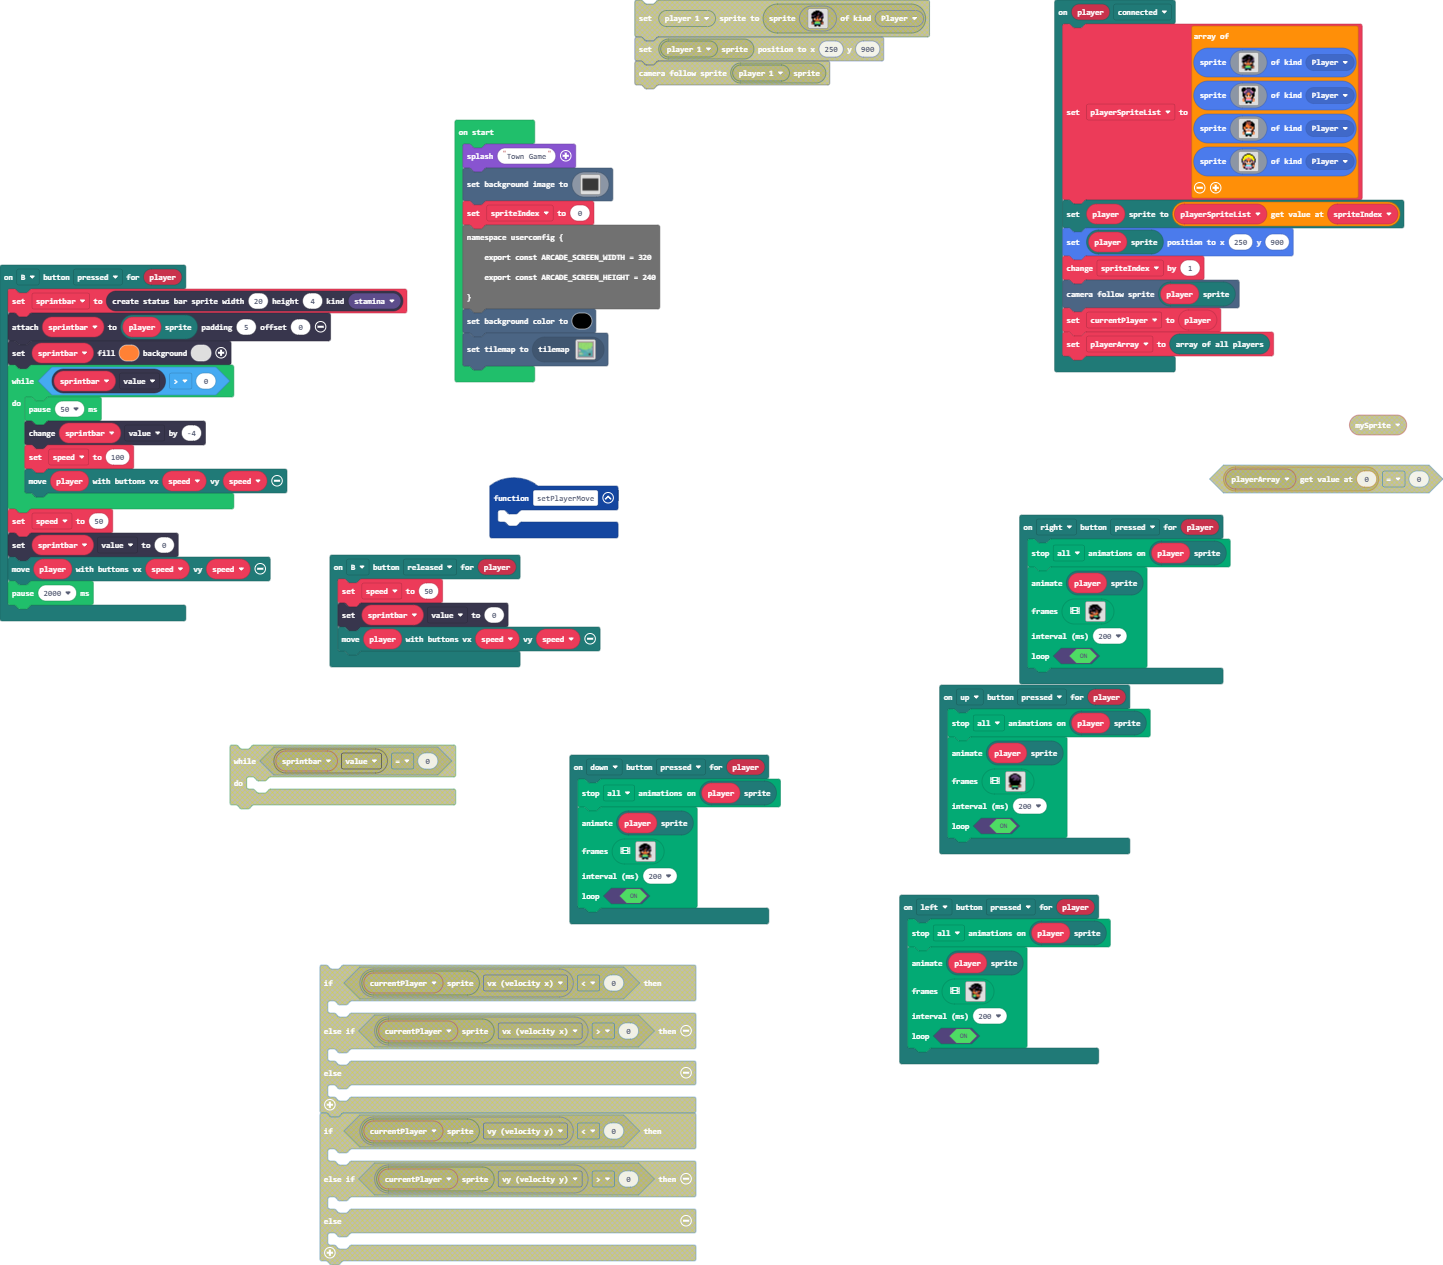
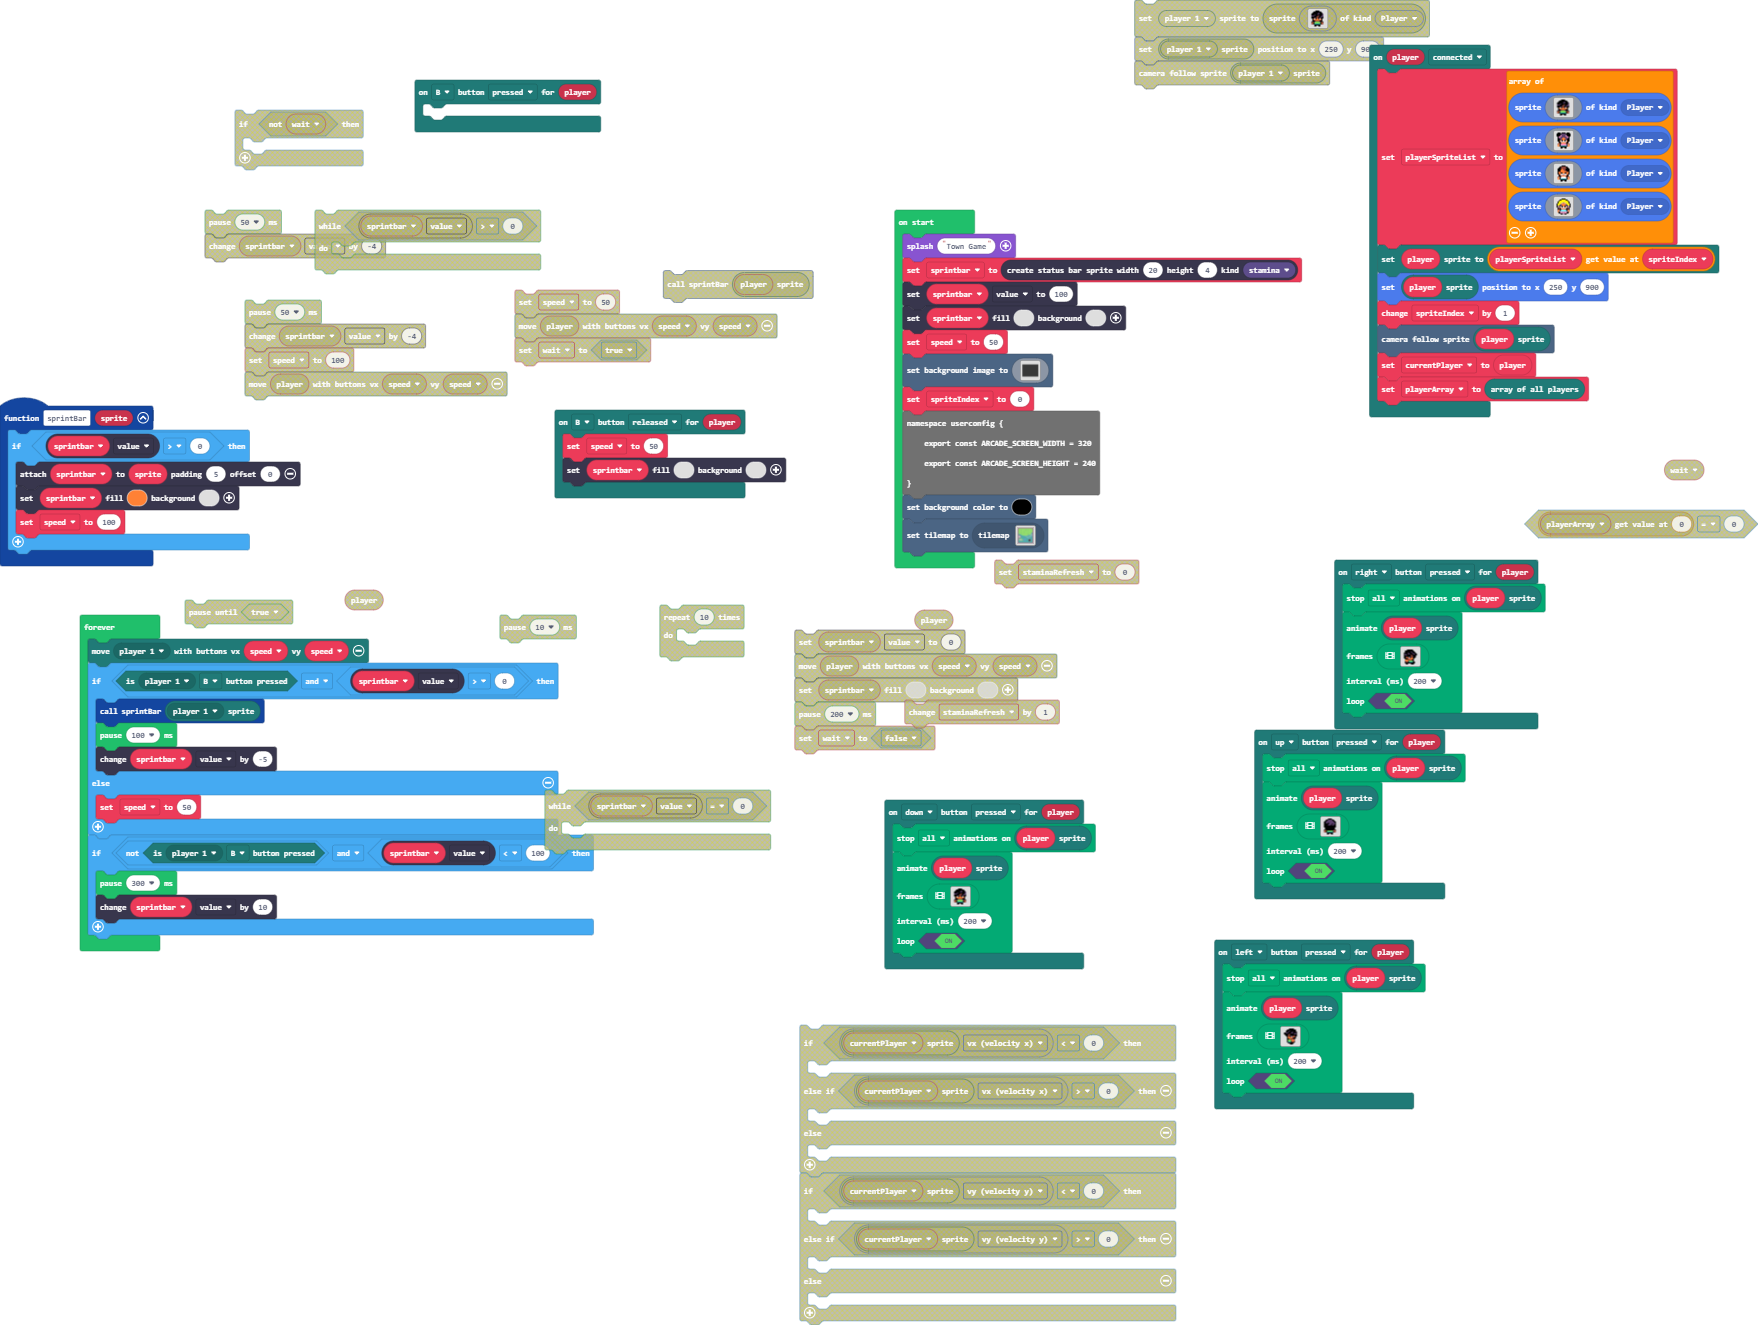
Update main.blocks, main.ts, images.g.jres, images.g.ts

diff --git a/main.ts b/main.ts
@@ -2,19 +2,7 @@ namespace StatusBarKind {
     export const stamina = StatusBarKind.create()
 }
 mp.onButtonEvent(mp.MultiplayerButton.B, ControllerButtonEvent.Pressed, function (player2) {
-    sprintbar = statusbars.create(20, 4, StatusBarKind.stamina)
-    sprintbar.attachToSprite(mp.getPlayerSprite(player2), 5, 0)
-    sprintbar.setColor(4, 0)
-    while (sprintbar.value > 0) {
-        pause(50)
-        sprintbar.value += -4
-        speed = 100
-        mp.moveWithButtons(player2, speed, speed)
-    }
-    speed = 50
-    sprintbar.value = 0
-    mp.moveWithButtons(player2, speed, speed)
-    pause(2000)
+	
 })
 mp.onButtonEvent(mp.MultiplayerButton.Right, ControllerButtonEvent.Pressed, function (player2) {
     animation.stopAnimation(animation.AnimationTypes.All, mp.getPlayerSprite(player2))
@@ -138,8 +126,7 @@ mp.onButtonEvent(mp.MultiplayerButton.Down, ControllerButtonEvent.Pressed, funct
 })
 mp.onButtonEvent(mp.MultiplayerButton.B, ControllerButtonEvent.Released, function (player2) {
     speed = 50
-    sprintbar.value = 0
-    mp.moveWithButtons(player2, speed, speed)
+    sprintbar.setColor(0, 0)
 })
 mp.onButtonEvent(mp.MultiplayerButton.Left, ControllerButtonEvent.Pressed, function (player2) {
     animation.stopAnimation(animation.AnimationTypes.All, mp.getPlayerSprite(player2))
@@ -343,16 +330,24 @@ mp.onControllerEvent(ControllerEvent.Connected, function (player2) {
     currentPlayer = player2
     playerArray = mp.allPlayers()
 })
-function setPlayerMove () {
-	
+function sprintBar (sprite: Sprite) {
+    if (sprintbar.value > 0) {
+        sprintbar.attachToSprite(sprite, 5, 0)
+        sprintbar.setColor(4, 0)
+        speed = 100
+    }
 }
 let playerArray: mp.Player[] = []
 let currentPlayer: mp.Player = null
 let playerSpriteList: Sprite[] = []
+let spriteIndex = 0
 let speed = 0
 let sprintbar: StatusBarSprite = null
-let spriteIndex = 0
 game.splash("Town Game")
+sprintbar = statusbars.create(20, 4, StatusBarKind.stamina)
+sprintbar.value = 100
+sprintbar.setColor(0, 0)
+speed = 50
 scene.setBackgroundImage(img`
     ffffffffffffffffffffffffffffffffffffffffffffffffffffffffffffffffffffffffffffffffffffffffffffffffffffffffffffffffffffffffffffffffffffffffffffffffffffffffffffffff
     ffffffffffffffffffffffffffffffffffffffffffffffffffffffffffffffffffffffffffffffffffffffffffffffffffffffffffffffffffffffffffffffffffffffffffffffffffffffffffffffff
@@ -482,3 +477,17 @@ namespace userconfig {
 }
 scene.setBackgroundColor(15)
 tiles.setCurrentTilemap(tilemap`Overworld`)
+forever(function () {
+    mp.moveWithButtons(mp.playerSelector(mp.PlayerNumber.One), speed, speed)
+    if (mp.isButtonPressed(mp.playerSelector(mp.PlayerNumber.One), mp.MultiplayerButton.B) && sprintbar.value > 0) {
+        sprintBar(mp.getPlayerSprite(mp.playerSelector(mp.PlayerNumber.One)))
+        pause(100)
+        sprintbar.value += -5
+    } else {
+        speed = 50
+    }
+    if (!(mp.isButtonPressed(mp.playerSelector(mp.PlayerNumber.One), mp.MultiplayerButton.B)) && sprintbar.value < 100) {
+        pause(300)
+        sprintbar.value += 10
+    }
+})

diff --git a/images.g.ts b/images.g.ts
@@ -41,6 +41,82 @@ f 2 2 2 2 2 2 2 2 2 2 f . . . .
 . . c 3 1 1 1 1 1 2 3 3 c c . . 
 . . . c c c c c c c c c c . . . 
 `;
+            case "image3":
+            case "myImage1":return img`
+. . . . . . . . . . 8 8 . . . . 
+. . . 8 8 . . . . . 8 8 . . . . 
+. . . 8 1 8 . . . 8 1 8 . . . . 
+. . . 8 1 6 8 . 8 8 1 8 . . . . 
+. . . 8 6 1 8 . 8 1 1 8 . 8 8 . 
+. . . 8 8 1 8 8 8 1 1 8 . 8 6 8 
+. . . 8 8 1 6 8 6 1 6 8 8 8 8 6 
+8 8 . 8 8 1 1 8 1 1 8 8 6 1 8 6 
+8 1 8 8 8 1 1 8 1 6 8 1 1 6 8 8 
+8 6 1 6 8 6 1 6 1 6 6 1 6 8 8 1 
+. 8 1 1 6 6 1 6 1 6 1 1 8 8 1 1 
+. . 8 1 1 6 1 8 1 6 1 6 8 1 1 8 
+. . . 8 1 6 1 8 6 6 1 8 6 1 8 8 
+. . . 8 1 8 1 8 6 6 8 8 6 6 8 6 
+. . . 8 6 8 6 8 6 6 8 8 6 6 8 6 
+. . . 8 6 8 6 6 6 6 8 8 6 6 8 6 
+`;
+            case "image4":
+            case "myImage2":return img`
+. . . . . . . . . . 8 8 . . . . 
+. . . 8 8 . . . . . 8 8 . . . . 
+. . . 8 1 8 . . . 8 1 8 . . . . 
+. . . 8 1 6 8 . 8 8 1 8 . . . . 
+. . . 8 6 1 8 . 8 1 1 8 . 8 8 . 
+. . . 8 8 1 8 8 8 1 1 8 . 8 6 8 
+8 8 8 8 8 1 6 8 6 1 6 8 8 8 8 6 
+6 8 8 8 8 1 1 8 1 1 8 8 6 1 8 6 
+8 8 8 8 8 1 1 8 1 6 8 1 1 6 8 8 
+1 6 8 8 8 6 1 6 1 6 6 1 6 8 8 1 
+8 8 8 1 6 6 1 6 1 6 1 1 8 8 1 1 
+8 6 8 1 1 6 1 8 1 6 1 6 8 1 1 8 
+8 6 6 8 1 6 1 8 6 6 1 8 6 1 8 8 
+8 6 6 8 1 8 1 8 6 6 8 8 6 6 8 6 
+8 8 8 8 6 8 6 8 6 6 8 8 6 6 8 6 
+8 8 8 8 6 8 6 6 6 6 8 8 6 6 8 6 
+`;
+            case "image5":
+            case "myImage3":return img`
+. . . . . . . . . . 8 8 . . . . 
+. . . 8 8 . . . . . 8 8 . . . . 
+. . . 8 1 8 . . . 8 1 8 . . . . 
+. . . 8 1 6 8 . 8 8 1 8 . . . . 
+. . . 8 6 1 8 . 8 1 1 8 . . . . 
+. . . 8 8 1 8 8 8 1 1 8 . . . . 
+8 8 8 8 8 1 6 8 6 1 6 8 8 8 8 . 
+6 8 8 8 8 1 1 8 1 1 8 8 6 1 8 . 
+8 8 8 8 8 1 1 8 1 6 8 1 1 6 8 . 
+1 6 8 8 8 6 1 6 1 6 6 1 6 8 8 8 
+8 8 8 1 6 6 1 6 1 6 1 1 8 8 1 8 
+8 6 8 1 1 6 1 8 1 6 1 6 8 1 1 8 
+8 6 6 8 1 6 1 8 6 6 1 8 6 1 8 . 
+8 6 6 8 6 8 1 8 6 6 8 8 6 6 8 . 
+8 8 8 8 6 8 6 8 6 6 8 8 6 6 8 . 
+8 8 8 8 6 8 6 6 6 6 8 8 6 6 8 . 
+`;
+            case "image6":
+            case "myImage4":return img`
+. . . . . . . . . . 8 8 . . . . 
+. . . 8 8 . . . . . 8 8 . . . . 
+. . . 8 1 8 . . . 8 1 8 . . . . 
+. . . 8 1 6 8 . 8 8 1 8 . . . . 
+. . . 8 6 1 8 . 8 1 1 8 . . . . 
+. . . 8 8 1 8 8 8 1 1 8 . . . . 
+. . . 8 8 1 6 8 6 1 6 8 8 8 8 . 
+8 8 . 8 8 1 1 8 1 1 8 8 6 1 8 . 
+8 1 8 8 8 1 1 8 1 6 8 1 1 6 8 8 
+8 6 1 6 8 6 1 6 1 6 6 1 6 8 8 8 
+. 8 1 1 6 6 1 6 1 6 1 1 8 8 1 8 
+. . 8 1 1 6 1 8 1 6 1 6 8 1 1 8 
+. . . 8 1 6 1 8 6 6 1 8 6 1 8 . 
+. . . 8 1 8 1 8 6 6 8 8 6 8 . . 
+. . . 8 6 8 6 8 6 6 8 8 6 8 . . 
+. . . 8 6 8 6 6 6 6 8 8 6 8 . . 
+`;
         }
         return null;
     })
